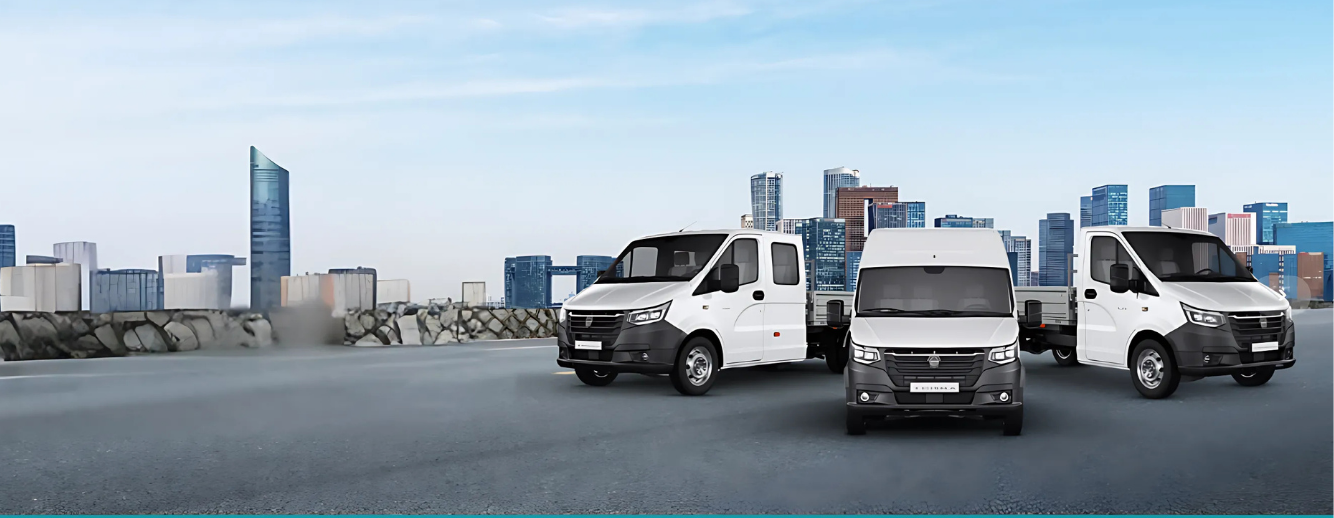
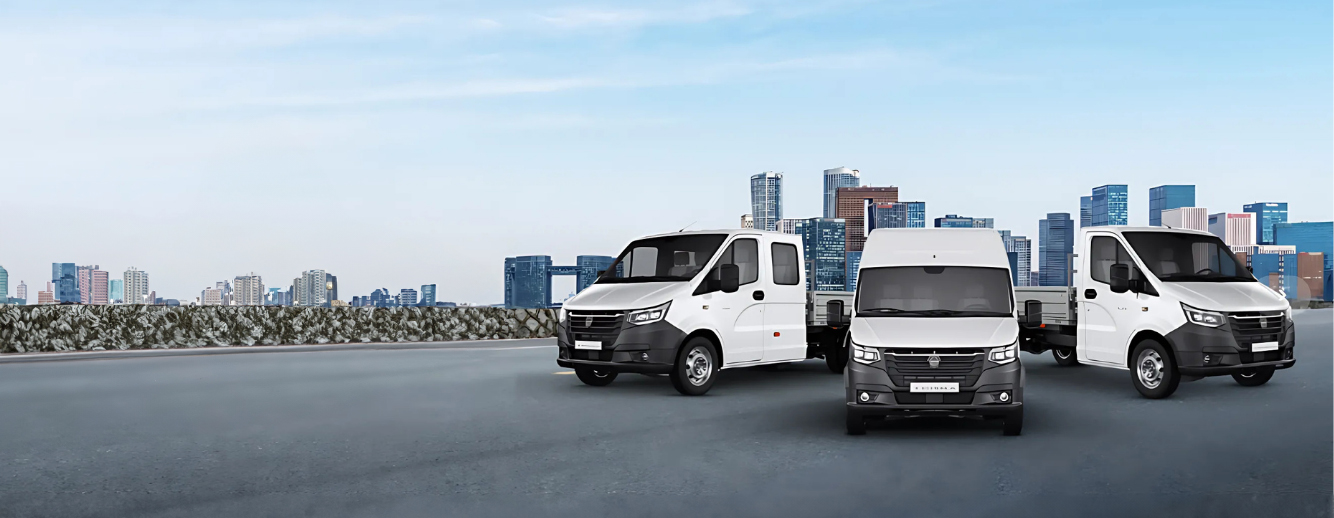
düzen

Changed region(s): [[0.0, 0.278, 0.3996, 0.7413], [0.0, 0.9884, 1.0, 1.0]]

diff --git a/index.html b/index.html
@@ -58,14 +58,14 @@
 
     <div class="slides">
         <!-- SLIDE 1 -->
-        <div class="slide" style="--bg-desktop:url('assets/indir.png'); --bg-mobile:url('assets/indir-m.jpg')">
+        <div class="slide" style="--bg-desktop:url('assets/indir.png'); --bg-mobile:url('assets/mobil-2.jpg')">
             <div class="hero-content container">
                 <h1>TENAX Ailesi ile Tanışın</h1>
             </div>
         </div>
     
         <!-- SLIDE 2 -->
-        <div class="slide" style="--bg-desktop:url('assets/indir2.png'); --bg-mobile:url('assets/indir2-m.jpg')">
+        <div class="slide" style="--bg-desktop:url('assets/indir2.png'); --bg-mobile:url('assets/mobil-3.jpg')">
             <div class="hero-content container">
                 <h1>İşinizi Büyütecek Güç</h1>
                 <p>Dayanıklı şasi, maksimum verim.</p>
@@ -73,7 +73,7 @@
         </div>
     
         <!-- SLIDE 3 -->
-        <div class="slide" style="--bg-desktop:url('assets/3333.png'); --bg-mobile:url('assets/3333-m.jpg')">
+        <div class="slide" style="--bg-desktop:url('assets/3333.png'); --bg-mobile:url('assets/mobil-1.jpg')">
             <div class="hero-content container">
                 <h1>Kalite ve Performans</h1>
                 <p>Her koşulda güven.</p>
